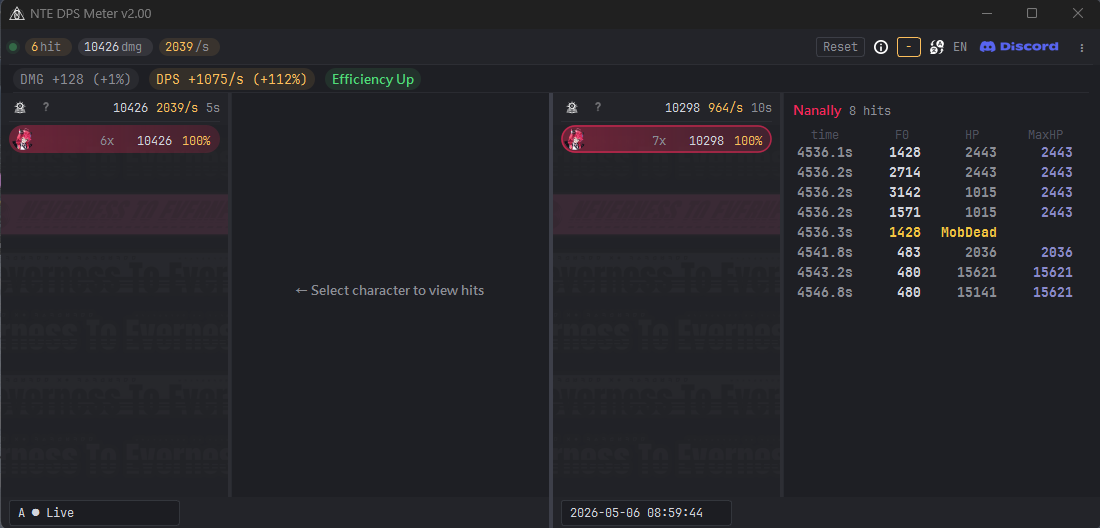
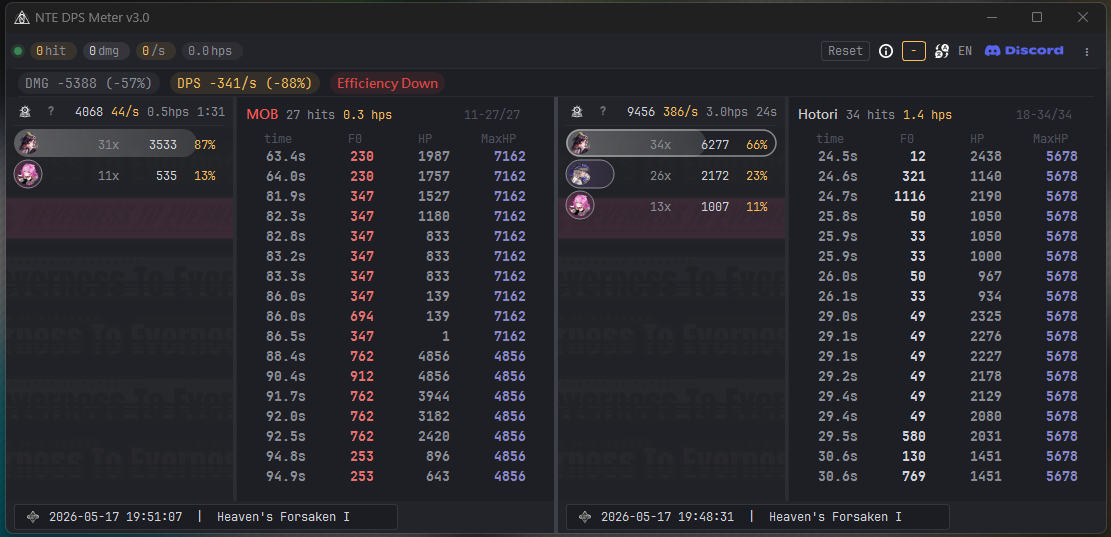
Add v3.0 changelog + update screenshots
- v3.0 changelog: session mode auto-detection, HPS/ECT indicators,
  overlay 5-row layout, stage column in report manager, upload
  threshold lowered to 50k
- Updated screenshots: overlay combat, compare mode, report manager
- New screenshot: main window report list with session icons

diff --git a/CHANGELOG_CN.md b/CHANGELOG_CN.md
@@ -2,6 +2,86 @@
 
 ---
 
+## v3.0 — 2026 年 5 月 17 日
+
+### 新功能：Session 模式自动识别
+
+工具现在能自动辨识你正在进行的游戏模式，并在战报中记录完整的关卡信息。
+
+**支持的模式**
+- **危险委托** — 自动识别 boss 与难度阶级（I–VI），战报显示委托名称。
+- **异象巡礼** — 自动识别 boss 与难度阶级（I–VII）。
+- **异象追猎** — 自动识别世界 Boss。
+- **轨外之境** — 自动识别路线、站号与上下半场。
+- 无法匹配以上模式时，标记为「自由战斗」。
+
+**关卡信息显示**
+- 战报管理器新增「关卡」栏位，显示委托名 + 罗马数字阶级（如「律动大师 III」「节理环线 S5 上半」）。
+- 每个模式配有专属图标，显示在战报管理器、主窗口下拉选单与对比模式中。
+- 阶级判定使用 HP 比对：从 DataTable 提取的怪物血量自动匹配当前难度。
+
+---
+
+### 新功能：HPS 指标（每秒命中数）
+
+新增衡量角色攻击速度的指标。
+
+- 浮窗卡片第 4 行显示总 HPS。
+- 主窗口标题栏、排名摘要、角色细节面板同步显示。
+- 战报 JSON 新增 `hps` 栏位（总 HPS + 各角色 HPS）。
+
+---
+
+### 新功能：ECT 指标（预计剩余时间）
+
+即时估算当前目标还需要多久击败。
+
+- 浮窗卡片第 5 行显示 ECT，格式 `mm:ss`。
+- 计算公式：目标当前血量 ÷ 你的 DPS。
+- 切换攻击目标时 ECT 自动跟随。
+
+---
+
+### 新功能：Session 结束冻结
+
+- 关卡结束时浮窗自动冻结，保持最后一刻的战斗数据显示。
+- 不会因为脱战而自动收回，方便查看最终成绩。
+- 下一场战斗开始时自动解冻恢复即时更新。
+
+---
+
+### 改善
+
+**浮窗卡片**
+- 显示行数从 3 行扩展为 5 行：总伤害、命中数、DPS、HPS、ECT。
+- 角色头像放大（22px → 33px），更易辨识。
+- 无角色数据时显示灰色未知头像，替代原本的「?」文字。
+- 点击行为简化：战斗中点击直接收合，无需等待穿透解除。
+
+**主窗口开放免费使用**
+- 主窗口所有入口（系统托盘双击、Alt+E、右键菜单）不再需要赞助者序号。
+- 战报对比模式维持赞助者专属。
+
+**分析平台**
+- 战报上传最低伤害门槛从 100,000 降至 50,000，让低等玩家的完整击杀也能参与排行。
+- 配对率页面新增 FAQ：说明为什么战报数量与排行榜不一致。
+
+**性能与稳定性**
+- 封包处理热路径性能优化，高命中速率下更流畅。
+- 内存使用改善：战报管理器不再将完整战报驻留于内存中。
+- 程序代码架构整理，提升长期稳定性。
+
+---
+
+### 修正
+
+- 修正危险委托阶段识别失败的问题。当怪物攻击玩家时，其 HP 值会污染 boss 血量观测池，导致阶级判定错误。
+- 修正战报上传时 `total_damage` 计算不一致的问题。
+- 修正反复开关战报管理器导致内存持续增长的问题。
+- 修正删除战报后，主窗口和对比模式的下拉选单未即时更新的问题。
+
+---
+
 ## v2.01 — 2026 年 5 月 7 日
 
 ### 修正

diff --git a/CHANGELOG_EN.md b/CHANGELOG_EN.md
@@ -2,6 +2,86 @@
 
 ---
 
+## v3.0 — May 17, 2026
+
+### New Feature: Session Mode Auto-Detection
+
+The tool now automatically identifies the game mode you're playing and records full stage information in battle reports.
+
+**Supported Modes**
+- **High-Risk Commissions** — Automatically identifies boss and difficulty tier (I–VI). Reports display the commission name.
+- **Weekly Clone** — Automatically identifies boss and difficulty tier (I–VII).
+- **Anomaly Hunt** — Automatically identifies world bosses.
+- **Beyond the Rails** — Automatically identifies route, station, and upper/lower half.
+- When no mode can be matched, the session is marked as "Free Combat."
+
+**Stage Information Display**
+- A new "Stage" column in the Report Manager shows the commission name with a Roman numeral tier (e.g., "Beat King III", "Fracture Circle S5 Upper").
+- Each mode has a dedicated icon, displayed in the Report Manager, main window dropdown, and comparison mode.
+- Tier detection uses HP matching: mob health values extracted from DataTables are matched against observed values to determine the current difficulty.
+
+---
+
+### New Feature: HPS Indicator (Hits Per Second)
+
+A new metric for measuring character attack speed.
+
+- The overlay card displays total HPS on row 4.
+- Also shown in the main window header, rank summary, and character detail panel.
+- Battle report JSON now includes an `hps` field (total HPS + per-character HPS).
+
+---
+
+### New Feature: ECT Indicator (Estimated Clear Time)
+
+Real-time estimation of how long it will take to defeat the current target.
+
+- The overlay card displays ECT on row 5, formatted as `mm:ss`.
+- Calculated as: target's current HP ÷ your DPS.
+- ECT automatically follows when you switch attack targets.
+
+---
+
+### New Feature: Session End Freeze
+
+- When a stage ends, the overlay freezes and retains the final combat data display.
+- The overlay will not auto-collapse due to inactivity, letting you review your final performance.
+- Automatically unfreezes when the next combat begins.
+
+---
+
+### Improvements
+
+**Overlay**
+- Data rows expanded from 3 to 5: Total Damage, Hit Count, DPS, HPS, ECT.
+- Character portrait enlarged (22px → 33px) for better visibility.
+- Unknown character placeholder now shows a gray avatar instead of a "?" text.
+- Simplified click behavior: clicking during combat directly collapses the overlay without waiting for click-through to disengage.
+
+**Main Window Now Free**
+- All main window entry points (tray double-click, Alt+E, context menu) no longer require a Sponsor key.
+- Report Comparison remains Sponsor-exclusive.
+
+**Analytics Platform**
+- Minimum upload damage threshold lowered from 100,000 to 50,000, allowing lower-level players' full boss kills to qualify for rankings.
+- Added FAQ to the Compositions page explaining why report counts differ from Rankings.
+
+**Performance & Stability**
+- Packet processing hot-path optimizations for smoother performance during high hit rates.
+- Improved memory usage: the Report Manager no longer retains full report data in memory.
+- Internal code architecture cleanup for improved long-term stability.
+
+---
+
+### Fixes
+
+- Fixed High-Risk Commission stage detection failure. When mobs attack the player, their HP values could pollute the boss HP observation pool, causing incorrect tier matching.
+- Fixed `total_damage` calculation inconsistency during report upload.
+- Fixed a memory leak caused by repeatedly opening and closing the Report Manager.
+- Fixed report dropdowns in the main window and comparison mode not refreshing after deleting reports.
+
+---
+
 ## v2.01 — May 7, 2026
 
 ### Fixes

diff --git a/CHANGELOG_ZH.md b/CHANGELOG_ZH.md
@@ -2,6 +2,86 @@
 
 ---
 
+## v3.0 — 2026 年 5 月 17 日
+
+### 新功能：Session 模式自動識別
+
+工具現在能自動辨識你正在進行的遊戲模式，並在戰報中記錄完整的關卡資訊。
+
+**支援的模式**
+- **危險委託** — 自動識別 boss 與難度階級（I–VI），戰報顯示委託名稱。
+- **異象巡禮** — 自動識別 boss 與難度階級（I–VII）。
+- **異象追獵** — 自動識別世界 Boss。
+- **軌外之境** — 自動識別路線、站號與上下半場。
+- 無法匹配以上模式時，標記為「自由戰鬥」。
+
+**關卡資訊顯示**
+- 戰報管理器新增「關卡」欄位，顯示委託名 + 羅馬數字階級（如「律動大師 III」「節理環線 S5 上半」）。
+- 每個模式配有專屬圖標，顯示在戰報管理器、主視窗下拉選單與比對模式中。
+- 階級判定使用 HP 比對：從 DataTable 提取的怪物血量自動匹配當前難度。
+
+---
+
+### 新功能：HPS 指標（每秒命中數）
+
+新增衡量角色攻擊速度的指標。
+
+- 浮窗卡片第 4 行顯示總 HPS。
+- 主視窗標題列、排名摘要、角色細節面板同步顯示。
+- 戰報 JSON 新增 `hps` 欄位（總 HPS + 各角色 HPS）。
+
+---
+
+### 新功能：ECT 指標（預計剩餘時間）
+
+即時估算當前目標還需要多久擊敗。
+
+- 浮窗卡片第 5 行顯示 ECT，格式 `mm:ss`。
+- 計算公式：目標當前血量 ÷ 你的 DPS。
+- 切換攻擊目標時 ECT 自動跟隨。
+
+---
+
+### 新功能：Session 結束凍結
+
+- 關卡結束時浮窗自動凍結，保持最後一刻的戰鬥數據顯示。
+- 不會因為脫戰而自動收回，方便查看最終成績。
+- 下一場戰鬥開始時自動解凍恢復即時更新。
+
+---
+
+### 改善
+
+**浮窗卡片**
+- 顯示行數從 3 行擴展為 5 行：總傷害、命中數、DPS、HPS、ECT。
+- 角色頭像放大（22px → 33px），更易辨識。
+- 無角色資料時顯示灰色未知頭像，替代原本的「?」文字。
+- 點擊行為簡化：戰鬥中點擊直接收合，無需等待穿透解除。
+
+**主視窗開放免費使用**
+- 主視窗所有入口（系統匣雙擊、Alt+E、右鍵選單）不再需要贊助者序號。
+- 戰報比對模式維持贊助者專屬。
+
+**分析平台**
+- 戰報上傳最低傷害門檻從 100,000 降至 50,000，讓低等玩家的完整擊殺也能參與排行。
+- 配對率頁面新增 FAQ：說明為什麼戰報數量與排行榜不一致。
+
+**效能與穩定性**
+- 封包處理熱路徑效能最佳化，高命中速率下更流暢。
+- 記憶體使用改善：戰報管理器不再將完整戰報駐留於記憶體中。
+- 程式碼架構整理，提升長期穩定性。
+
+---
+
+### 修正
+
+- 修正危險委託階段識別失敗的問題。當怪物攻擊玩家時，其 HP 值會污染 boss 血量觀測池，導致階級判定錯誤。
+- 修正戰報上傳時 `total_damage` 計算不一致的問題。
+- 修正反覆開關戰報管理器導致記憶體持續增長的問題。
+- 修正刪除戰報後，主視窗和比對模式的下拉選單未即時更新的問題。
+
+---
+
 ## v2.01 — 2026 年 5 月 7 日
 
 ### 修正